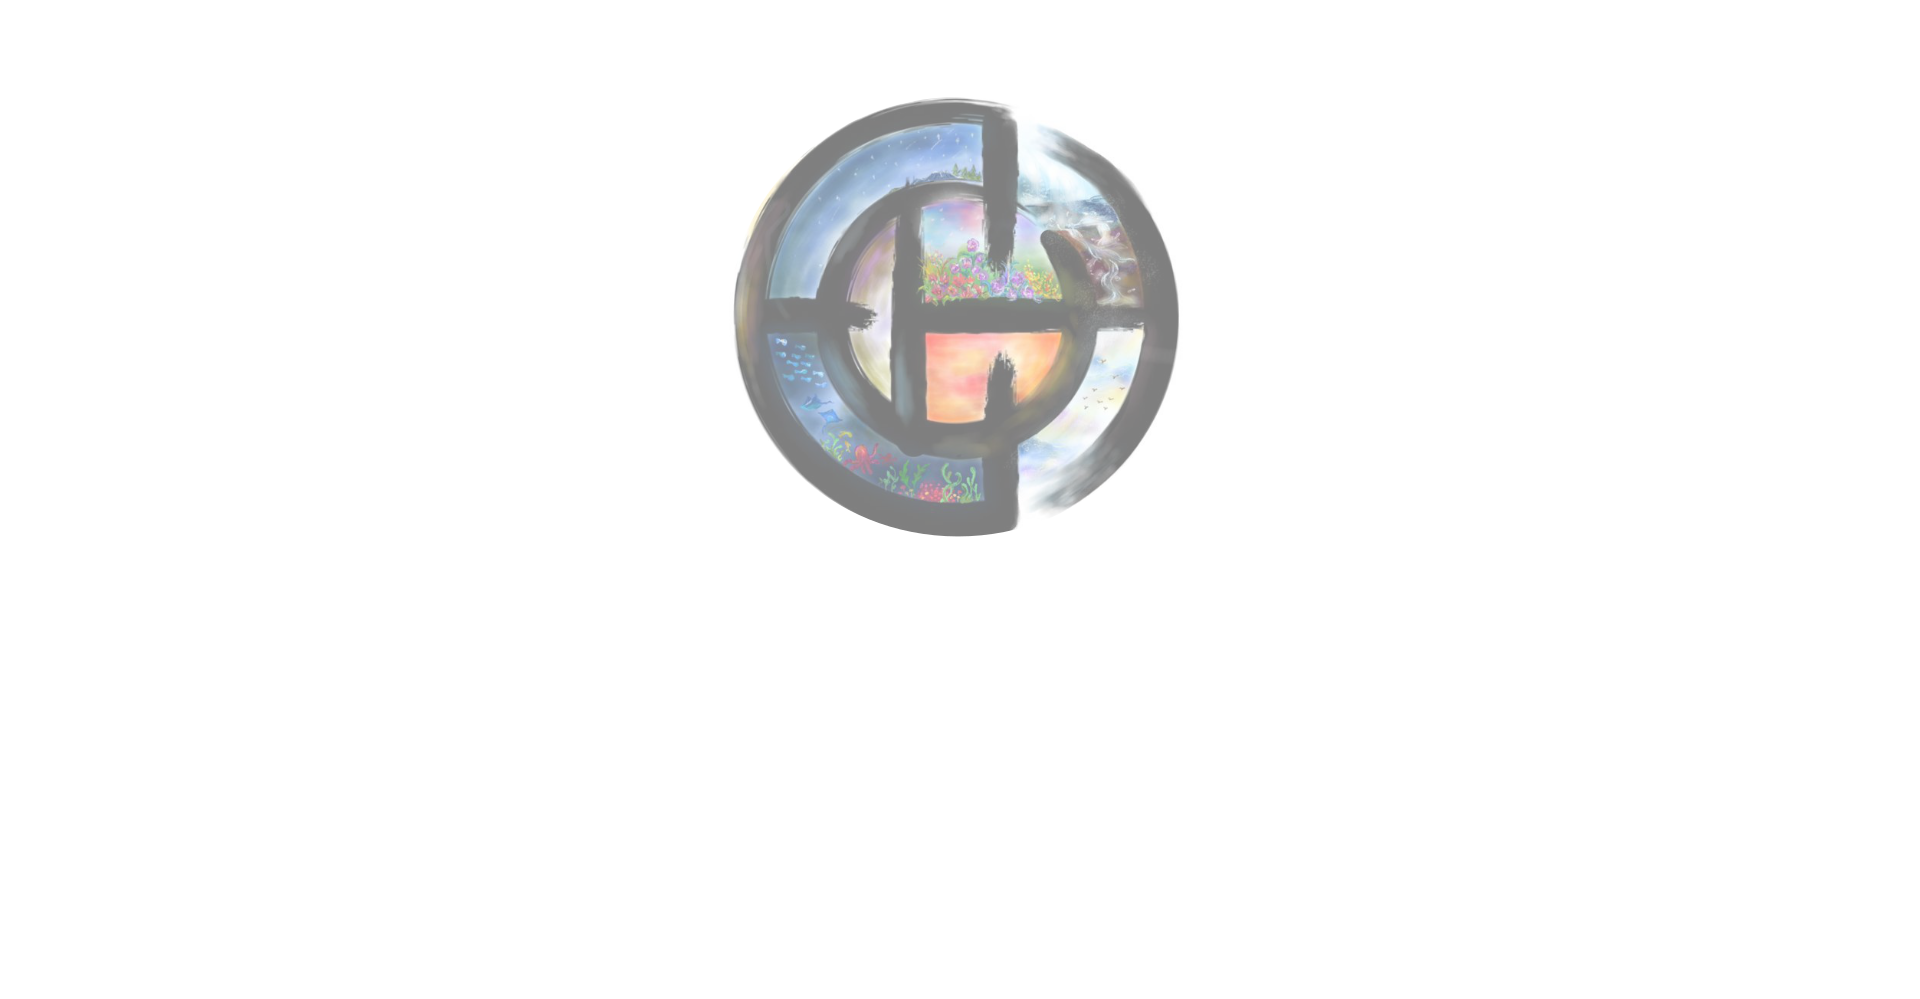
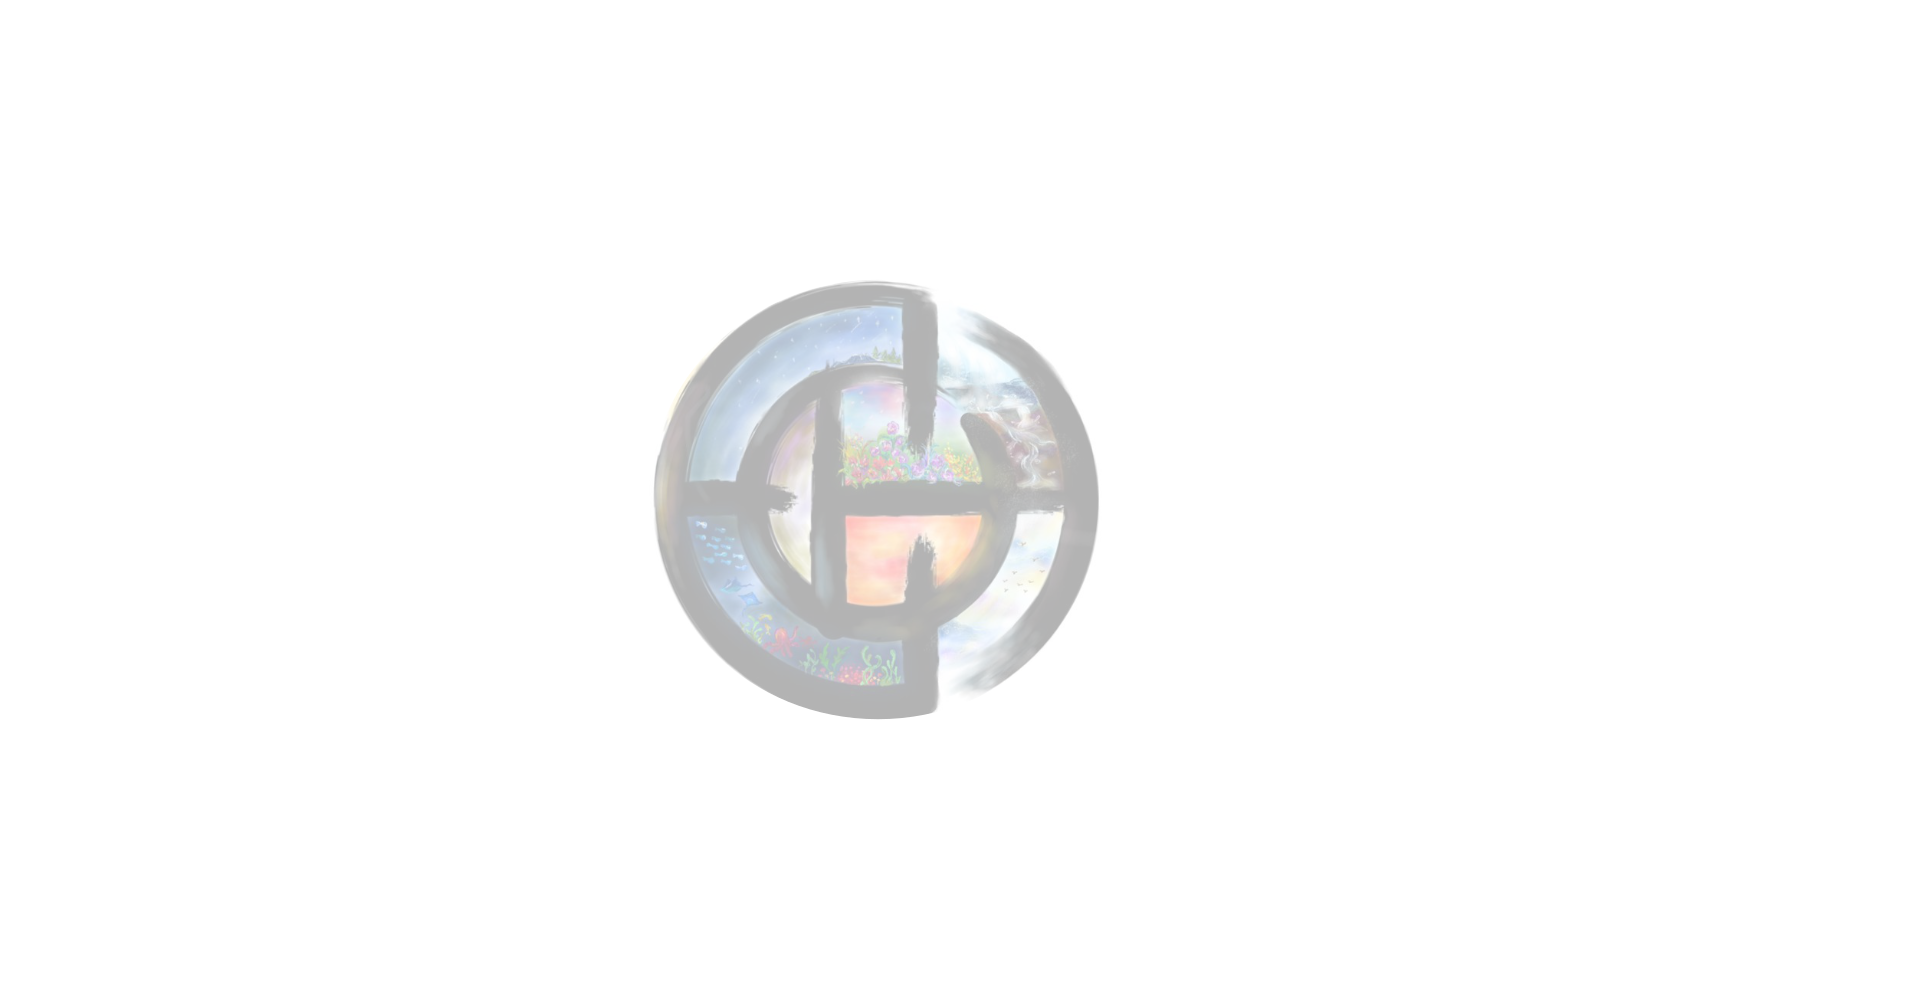
adjusted hero

Changed region(s): [[0.3438, 0.0931, 0.625, 0.7447]]

diff --git a/src/app/(public)/page.tsx b/src/app/(public)/page.tsx
@@ -28,7 +28,7 @@ export default async function Home() {
 
   return (
     <>
-      <section className="w-full px-6 relative flex items-center" style={{ minHeight: '500px' }}>
+      <section className="w-full px-6 relative flex items-center" style={{ minHeight: '750px' }}>
         <div className="max-w-5xl mx-auto">
           <Image
             src="/images/Egancece.png"
